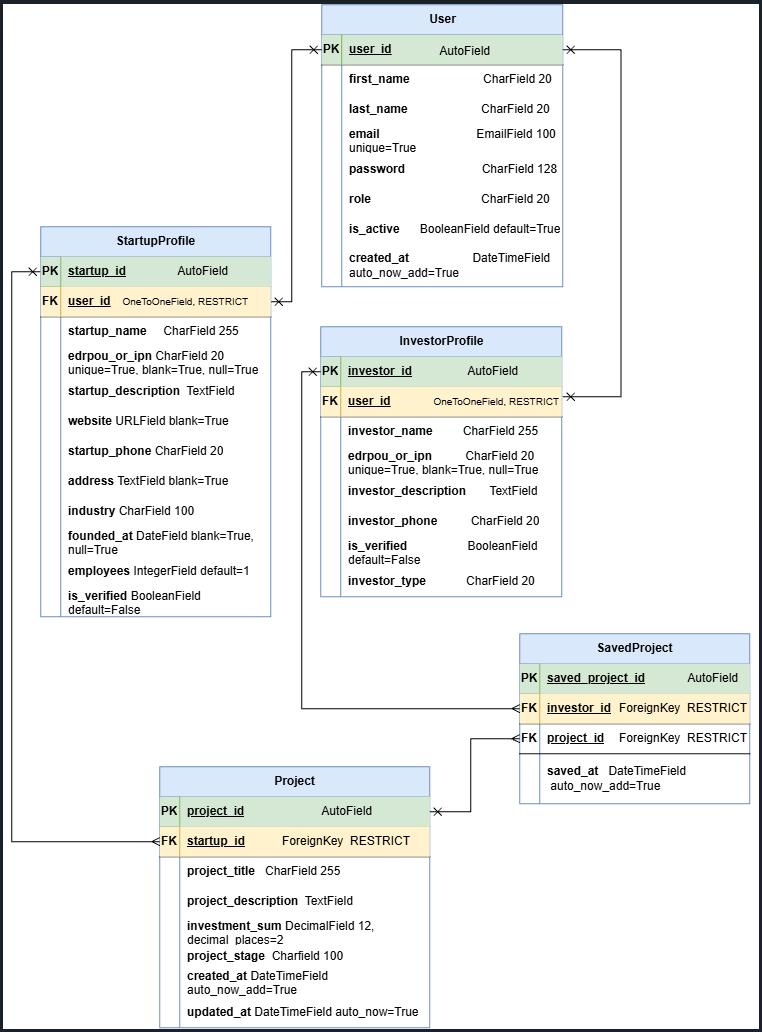
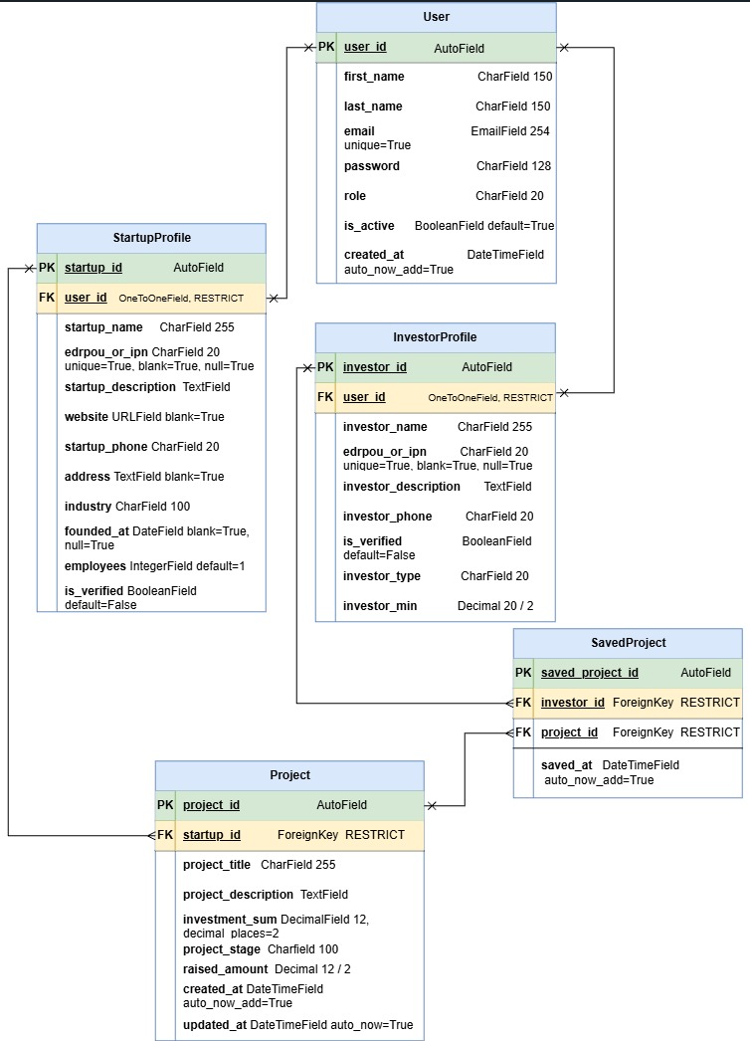
Fixed DB diagram in README

Changed region(s): [[0.0, 0.0, 1.0, 1.0], [0.3373, 0.5581, 0.368, 0.5891]]

diff --git a/backend/projects/models.py b/backend/projects/models.py
@@ -36,6 +36,18 @@ class Project(models.Model):
         indexes = [
             models.Index(fields=["project_stage"], name="project_stage_idx"),
         ]
+        constraints = [
+            models.CheckConstraint(
+                check=models.Q(investment_sum__gt=0),
+                name='project_investment_sum_gt_zero'
+            ),
+            models.CheckConstraint(
+                check=models.Q(raised_amount__gte=0),
+                name='project_raised_amount_gte_zero'
+            ),
+        ]
+
+
 
     def __str__(self):
         return self.project_title

diff --git a/backend/startups/models.py b/backend/startups/models.py
@@ -59,6 +59,12 @@ class StartupProfile(models.Model):
         indexes = [
             models.Index(fields=["industry"], name="startup_industry_idx"),
         ]
+        constraints = [
+            models.CheckConstraint(
+                check=models.Q(employees__gte=1), 
+                name='startup_employees_gte_one'
+            ),
+        ]
 
     def save(self, *args, **kwargs):
         if self.startup_phone:
